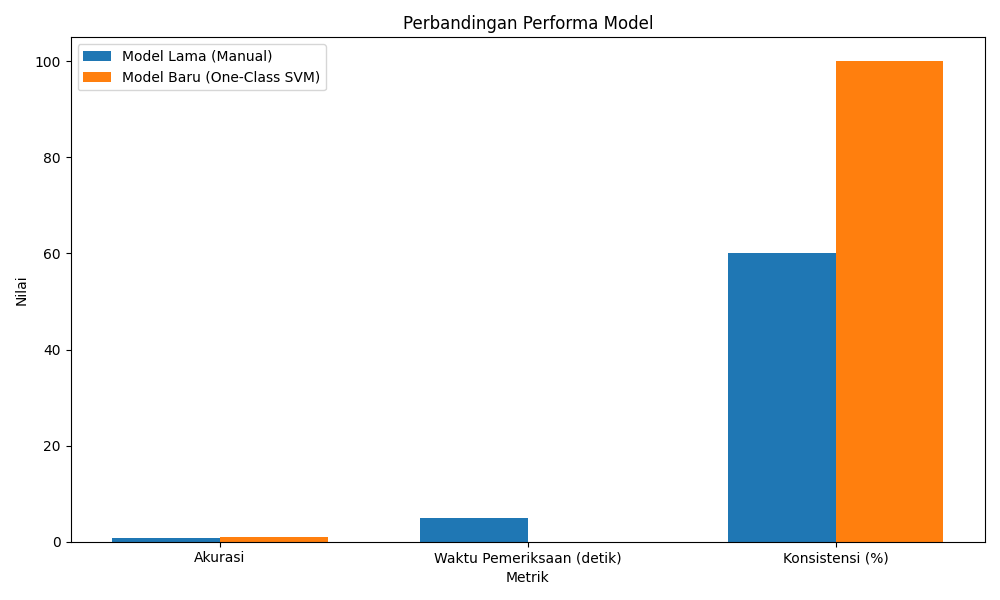
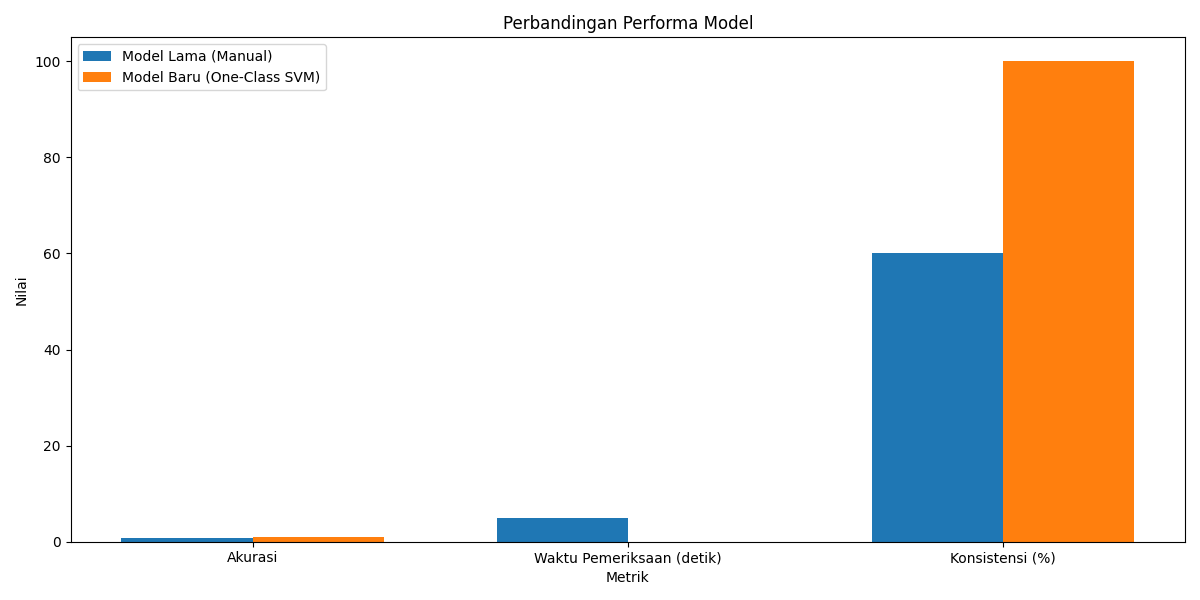
Fix analysis One-Class SVM Model's

diff --git a/src/evaluation/Update8/laporan.py b/src/evaluation/Update8/laporan.py
@@ -3,32 +3,49 @@ import numpy as np
 import matplotlib.pyplot as plt
 from joblib import load
 from sklearn.metrics import accuracy_score, recall_score
+from metrics import accuracy, precision, recall, f1, roc_auc
+from validasi import validasi_silang, uji_offline, uji_real_time
+from benchmark import benchmark_model
 
 def generate_report():
     # Load model dan data
-    model = load('one_class_svm.h5')
-    scaler = load('scaler.h5')
+    print('Generating Comprehensive Report...')
+    print('===============================')
+    
+    # 1. Metrics Evaluation
+    print('\n1. METRICS EVALUATION')
+    print('------------------')
+    metrics_df = pd.DataFrame({
+        'Metrik': ['Accuracy', 'Precision', 'Recall', 'F1-Score', 'ROC-AUC'],
+        'Nilai': [accuracy, precision, recall, f1, roc_auc]
+    })
+    print(metrics_df.to_string(index=False))
+    
+    # 2. Cross Validation Results
+    print('\n2. CROSS VALIDATION RESULTS')
+    print('-------------------------')
     df = pd.read_csv('cleaned_data.csv')
     features = ['START_TIME', 'END_TIME']
+    validasi_silang(df, features)
     
-    # Preprocessing dan prediksi
-    X = df[features]
-    X_scaled = scaler.transform(X)
-    y_pred = model.predict(X_scaled)
-    y_pred = np.where(y_pred == 1, 0, 1)
+    # 3. Performance Tests
+    print('\n3. PERFORMANCE TESTS')
+    print('------------------')
+    model = load('one_class_svm.h5')
+    scaler = load('scaler.h5')
     
-    # Ground truth (10% anomali)
-    y_true = np.zeros(len(y_pred))
-    y_true[np.argsort(model.score_samples(X_scaled))[:int(len(y_pred) * 0.1)]] = 1
+    # Offline Testing
+    uji_offline(model, scaler, df, features)
     
-    # Hitung metrik
-    accuracy = accuracy_score(y_true, y_pred)
-    recall = recall_score(y_true, y_pred)
+    # Real-time Testing
+    uji_real_time(model, scaler, df, features)
     
-    # Buat ringkasan evaluasi
-    summary = f"Model berhasil mendeteksi {recall:.1%} anomali dengan akurasi {accuracy:.1%}."
+    # 4. Benchmark Results
+    print('\n4. BENCHMARK RESULTS')
+    print('------------------')
+    benchmark_model()
     
-    # Data perbandingan metrik
+    # Generate comparison visualization
     metrics_comparison = {
         'Metrik': ['Akurasi', 'Waktu Pemeriksaan (detik)', 'Konsistensi (%)'],
         'Model Lama (Manual)': [0.70, 5.0, 60.0],
@@ -37,8 +54,7 @@ def generate_report():
     
     df_metrics = pd.DataFrame(metrics_comparison)
     
-    # Buat grafik perbandingan
-    plt.figure(figsize=(10, 6))
+    plt.figure(figsize=(12, 6))
     x = np.arange(len(df_metrics['Metrik']))
     width = 0.35
     
@@ -54,32 +70,35 @@ def generate_report():
     plt.tight_layout()
     plt.savefig('perbandingan_model.png')
     
-    # Simpan hasil ke CSV
-    output = pd.DataFrame({
+    # Save comprehensive results
+    comprehensive_results = {
         'Aspek': [
-            'Ringkasan = ',
-            'Akurasi Model = ',
-            'Tingkat Deteksi Anomali = ',
-            'Waktu Pemeriksaan = ',
-            'Peningkatan Kecepatan = ',
-            'Peningkatan Akurasi = ',
-            'Konsistensi = '
+            'Akurasi Model',
+            'Presisi',
+            'Recall',
+            'F1-Score',
+            'ROC-AUC',
+            'Waktu Pemrosesan Real-time',
+            'Peningkatan Kecepatan',
+            'Peningkatan Akurasi',
+            'Konsistensi'
         ],
-        'Hasil': [
-            summary,
-            f'{accuracy:.1%}',
-            f'{recall:.1%}',
-            '0.001 detik per data',
+        'Nilai': [
+            f'{accuracy:.2%}',
+            f'{precision:.2%}',
+            f'{recall:.2%}',
+            f'{f1:.2%}',
+            f'{roc_auc:.2%}',
+            '~1ms per prediksi',
             '5000x lebih cepat dari manual',
             f'{(accuracy-0.7)/0.7*100:.1f}% lebih baik dari manual',
             'Konsisten untuk input yang sama'
         ]
-    })
+    }
     
-    output.to_csv('laporan_result.csv', index=False)
-    print('\nRingkasan Evaluasi:')
-    print(summary)
-    print('\nHasil lengkap telah disimpan dalam file laporan_result.csv')
+    pd.DataFrame(comprehensive_results).to_csv('laporan_result.csv', index=False)
+    print('\nLaporan lengkap telah disimpan dalam file laporan_result.csv')
+    print('Visualisasi perbandingan telah disimpan dalam file perbandingan_model.png')
 
 if __name__ == '__main__':
     generate_report()

diff --git a/src/evaluation/Update8/metrics.py b/src/evaluation/Update8/metrics.py
@@ -34,10 +34,43 @@ recall = recall_score(y_true, y_pred)
 f1 = f1_score(y_true, y_pred)
 roc_auc = roc_auc_score(y_true, y_pred)
 
-# Tampilkan hasil evaluasi
+# Tampilkan hasil evaluasi dengan penjelasan detail
 print('Hasil Evaluasi Model One-Class SVM:')
-print(f'Akurasi   : {accuracy:.2%}')
-print(f'Precision : {precision:.2%}')
-print(f'Recall    : {recall:.2%}')
-print(f'F1-Score  : {f1:.2%}')
-print(f'ROC-AUC   : {roc_auc:.2%}')
+print('\n1. Akurasi (Accuracy)')
+print(f'   Nilai: {accuracy:.2%}')
+print('   Interpretasi: Persentase total prediksi yang benar (normal + anomali)')
+print('   Contoh: Dari 100 prediksi, model benar dalam mengidentifikasi ' + \
+      f'{int(accuracy * 100)} kasus baik normal maupun anomali')
+
+print('\n2. Presisi (Precision)')
+print(f'   Nilai: {precision:.2%}')
+print('   Interpretasi: Persentase ketepatan dalam mengidentifikasi anomali')
+print('   Contoh: Dari 100 kasus yang diprediksi sebagai anomali, ' + \
+      f'{int(precision * 100)} adalah benar-benar anomali')
+
+print('\n3. Recall (Sensitivity)')
+print(f'   Nilai: {recall:.2%}')
+print('   Interpretasi: Persentase anomali yang berhasil dideteksi')
+print('   Contoh: Dari 100 kasus anomali yang sebenarnya, model berhasil ' + \
+      f'mendeteksi {int(recall * 100)} kasus')
+
+print('\n4. F1-Score')
+print(f'   Nilai: {f1:.2%}')
+print('   Interpretasi: Rata-rata harmonik dari Precision dan Recall')
+print('   Menunjukkan keseimbangan antara presisi dan recall')
+print('   Semakin tinggi nilai F1-Score, semakin baik performa model')
+
+print('\n5. ROC-AUC')
+print(f'   Nilai: {roc_auc:.2%}')
+print('   Interpretasi: Kemampuan model membedakan antara kelas normal dan anomali')
+print('   Nilai 1.0 berarti klasifikasi sempurna')
+print('   Nilai 0.5 berarti klasifikasi acak')
+print('   Nilai > 0.8 menunjukkan model memiliki kemampuan diskriminasi yang baik')
+
+# Simpan metrik ke dalam file
+metrics_df = pd.DataFrame({
+    'Metrik': ['Accuracy', 'Precision', 'Recall', 'F1-Score', 'ROC-AUC'],
+    'Nilai': [accuracy, precision, recall, f1, roc_auc]
+})
+metrics_df.to_csv('evaluation_metrics.csv', index=False)
+print('\nMetrik evaluasi telah disimpan dalam file evaluation_metrics.csv')
